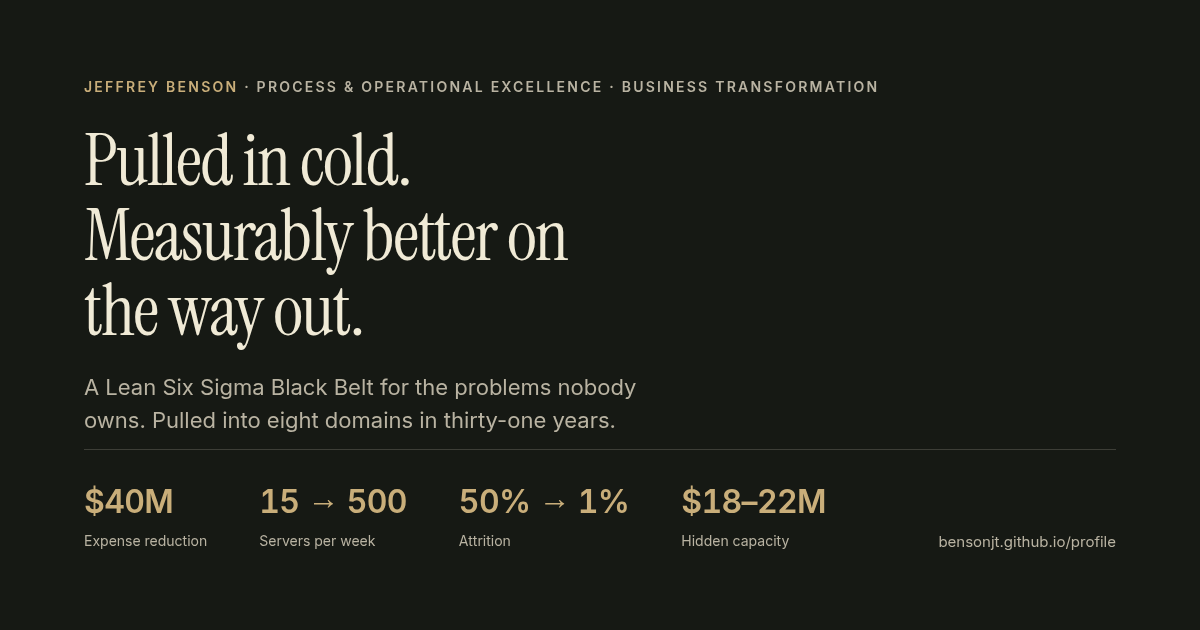
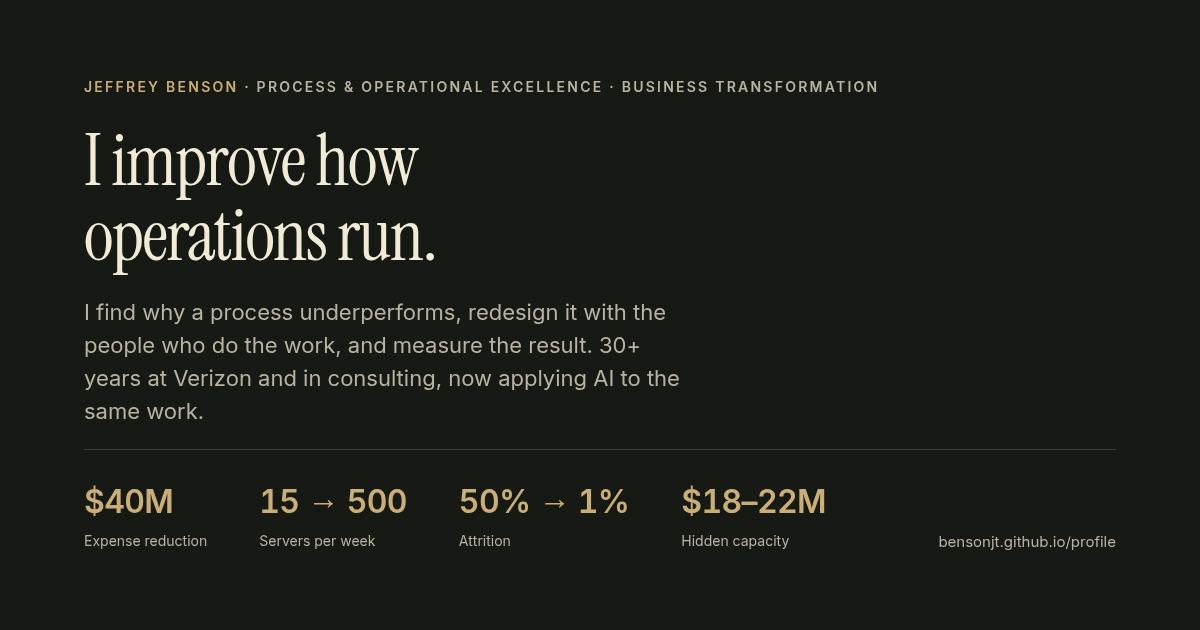
OG card: match the new home hero (I improve how operations run)

Changed region(s): [[0.0617, 0.3317, 0.555, 0.6937], [0.0925, 0.2111, 0.3392, 0.3016]]

diff --git a/proto/og.html b/proto/og.html
@@ -22,8 +22,8 @@
 <div class="og">
   <div>
     <p class="og__name">Jeffrey Benson <span>&middot; Process &amp; Operational Excellence &middot; Business Transformation</span></p>
-    <h1>Pulled in cold. Measurably better on the way out.</h1>
-    <p class="og__sub">A Lean Six Sigma Black Belt for the problems nobody owns. Pulled into eight domains in thirty-one years.</p>
+    <h1>I improve how operations run.</h1>
+    <p class="og__sub">I find why a process underperforms, redesign it with the people who do the work, and measure the result. 30+ years at Verizon and in consulting, now applying AI to the same work.</p>
   </div>
   <div class="og__bar">
     <div class="og__m"><b>$40M</b><span>Expense reduction</span></div>
